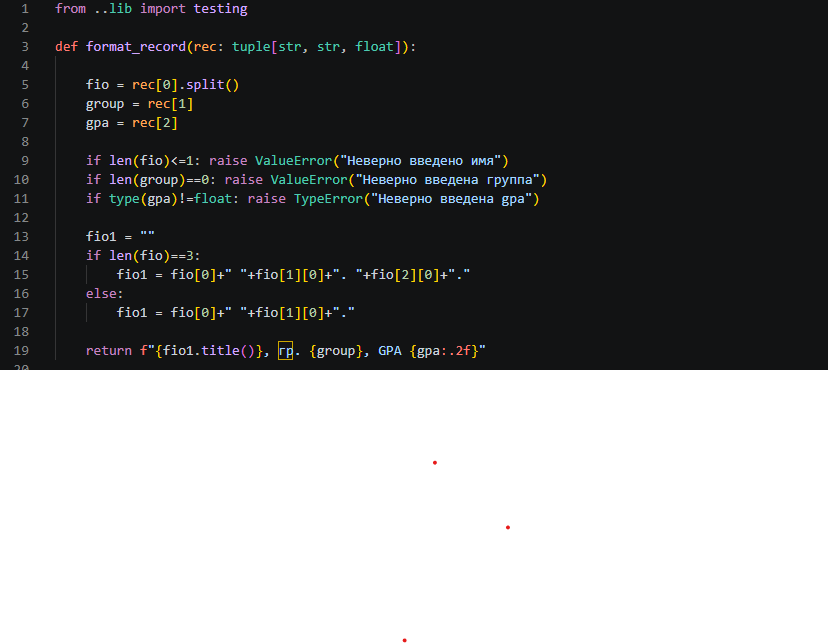
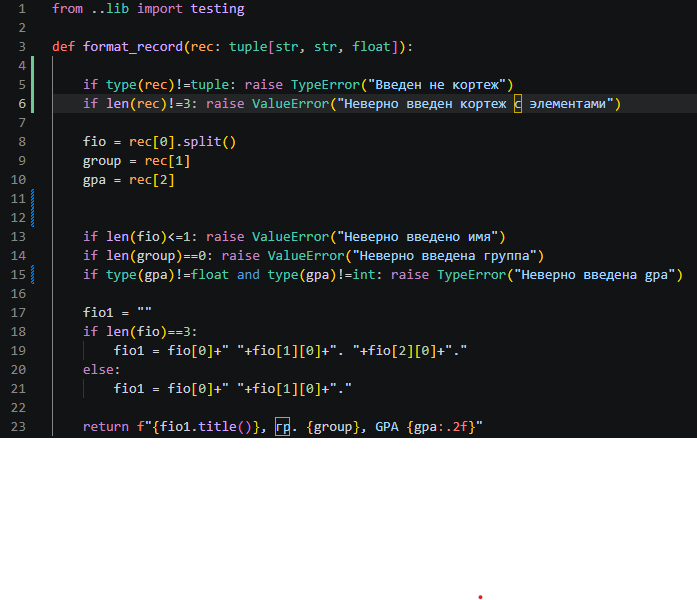
lab2fixes

diff --git a/src/lab02/03_tuples.py b/src/lab02/03_tuples.py
@@ -2,13 +2,17 @@ from ..lib import testing
 
 def format_record(rec: tuple[str, str, float]):
 
+    if type(rec)!=tuple: raise TypeError("Введен не кортеж")
+    if len(rec)!=3: raise ValueError("Неверно введен кортеж с элементами")
+
     fio = rec[0].split()
     group = rec[1]
     gpa = rec[2]
 
+  
     if len(fio)<=1: raise ValueError("Неверно введено имя")
     if len(group)==0: raise ValueError("Неверно введена группа")
-    if type(gpa)!=float: raise TypeError("Неверно введена gpa")
+    if type(gpa)!=float and type(gpa)!=int: raise TypeError("Неверно введена gpa")
 
     fio1 = ""
     if len(fio)==3:
@@ -22,7 +26,9 @@ test_format_record = [
     ("Иванов Иван Иванович", "BIVT-25", 4.6),
     ("Петров Пётр", "IKBO-12", 5.0),
     ("Петров Пётр Петрович", "IKBO-12", 5.0),
-    ("  сидорова  анна   сергеевна ", "ABB-01", 3.999)
+    ("  сидорова  анна   сергеевна ", "ABB-01", 3.999),
+    (1,),
+    "123"
 ]
 print()
 print("FORMAT_RECORD")

diff --git a/src/lab02/01_arrays.py b/src/lab02/01_arrays.py
@@ -1,14 +1,28 @@
 from ..lib import testing
 
+def bubble_sort(arr):
+    n = len(arr)
+    for i in range(n):
+        swapped = False
+        for j in range(0, n - i - 1):
+            if arr[j] > arr[j + 1]:
+                # Обмен элементов
+                arr[j], arr[j + 1] = arr[j + 1], arr[j]
+                swapped = True
+        if not swapped:
+            break
+    return arr
+
 def min_max(nums: list[float | int]):
     if len(nums)==0:
         raise ValueError()
     else:
-        return tuple([min(nums),max(nums)])
+        s = bubble_sort(nums)
+        return tuple([s[0],s[-1]])
 
     
 def unique_sorted(nums: list[float | int]):
-    return sorted(set(nums))
+    return sorted(set(bubble_sort(nums)))
 
 
 def flatten(mat: list[list | tuple]):
